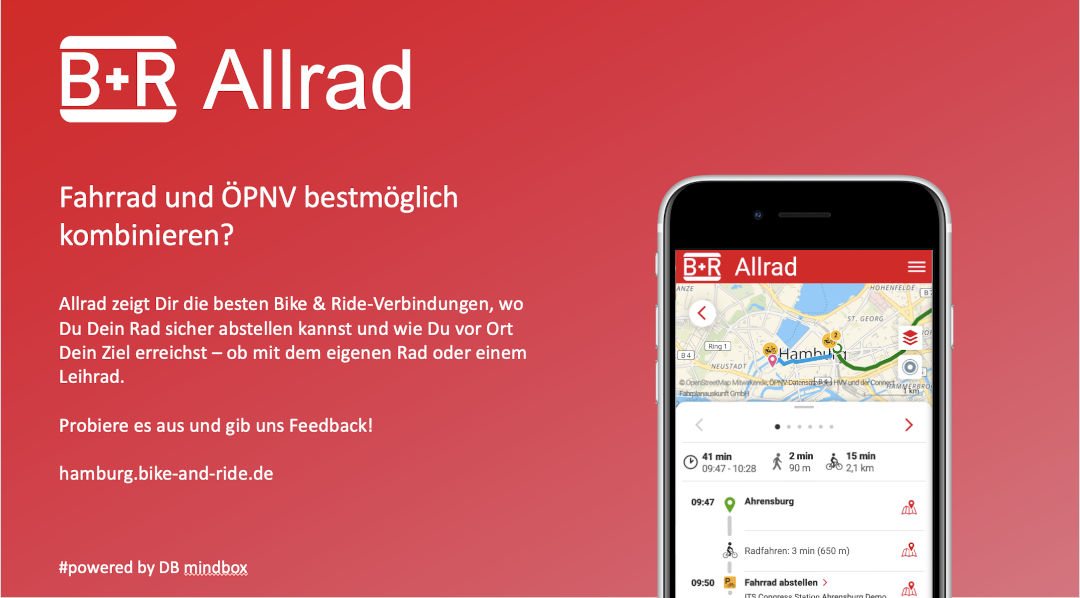
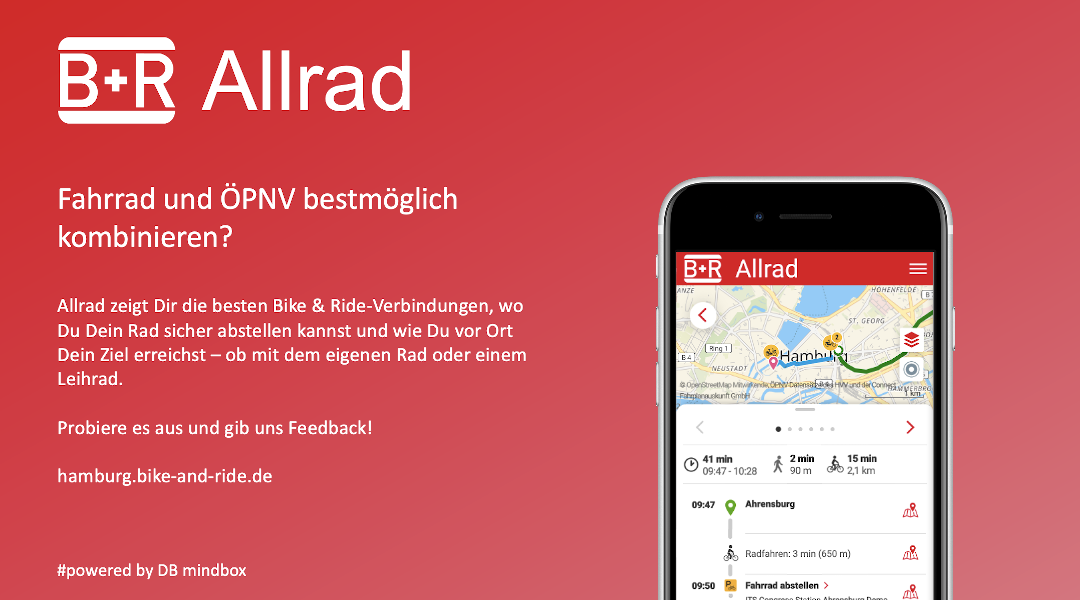
Update social media card

diff --git a/app/configurations/config.bar.js b/app/configurations/config.bar.js
@@ -109,7 +109,7 @@ export default configMerger(walttiConfig, {
         image: {
             url: '/img/bar-social-media-card.png',
             width: 1080,
-            height: 598,
+            height: 600,
         },
 
         twitter: {
